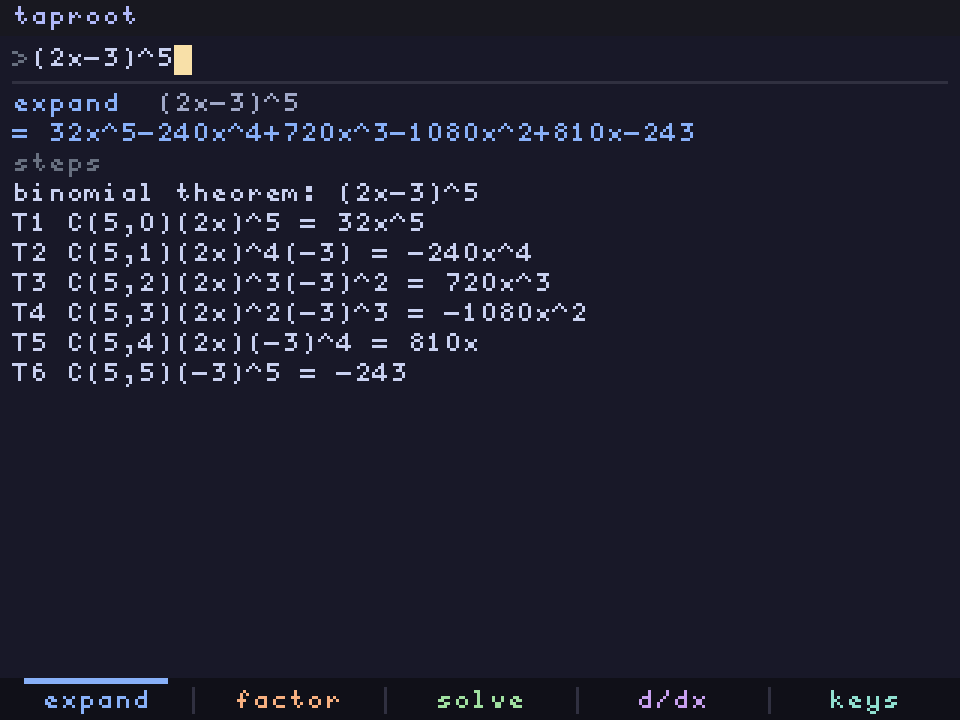
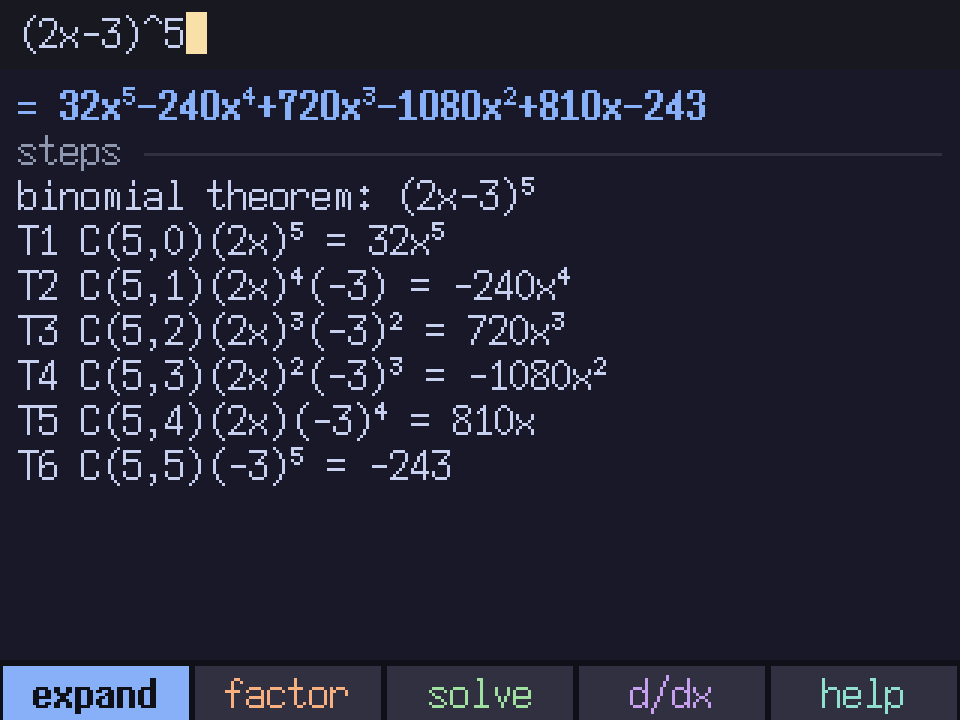
readme: ~80 kb, new screenshots

Changed region(s): [[0.0, 0.0, 0.75, 0.6722], [0.0, 0.9167, 1.0, 1.0], [0.4062, 0.6111, 0.4688, 0.6722]]

diff --git a/README.md b/README.md
@@ -51,7 +51,7 @@ when a problem is too big or too sensitive to answer right, taproot tells you th
 | shows the steps | yes | no | no | no |
 | exact factor and solve | yes | no, decimals only | no, it can't factor or solve | yes |
 | type the problem right in the program | yes | n/a | no, it goes in Y1 first | yes |
-| fits next to your other stuff | yes, ~76 kb | built in | yes | no, the install wipes your archive |
+| fits next to your other stuff | yes, ~80 kb | built in | yes | no, the install wipes your archive |
 
 sources: [pineapplecas](https://github.com/nathanfarlow/PineappleCAS), [khicas for the 84](https://xcas.univ-grenoble-alpes.fr/backup/ti/khicas84.html), the [ti-84 plus ce guidebook](https://education.ti.com/html/webhelp/EG_TI84PlusCE/EN/content/home_84plusce_v5.7.HTML).
 
@@ -63,14 +63,14 @@ sources: [pineapplecas](https://github.com/nathanfarlow/PineappleCAS), [khicas f
 - `enter` solves when there's an `=` or an inequality, otherwise it repeats your last command.
 - on an empty line, any command key runs on your last answer, so expand, then factor, then solve is three key presses.
 - `2nd enter` brings back earlier inputs. `▲ ▼` scroll the steps.
-- `graph` shows every key on one screen. `2nd mode` quits.
+- `graph` explains every key. `2nd mode` quits.
 
 ## install
 
 1. get the ce c libraries ([clibs](https://github.com/CE-Programming/libraries/releases)) on your calculator, if they aren't there already.
 2. send all three files from the release (`TAPROOT.8xp` and its two appvars) with ti connect ce or tilp.
 3. on os 5.5 and newer, run it through [arTIfiCE](https://yvantt.github.io/arTIfiCE/).
-4. taproot needs about 82 kb of free ram while it runs. archive your other programs if it says memory.
+4. taproot needs about 86 kb of free ram while it runs. archive your other programs if it says memory.
 
 ## build it yourself
 
